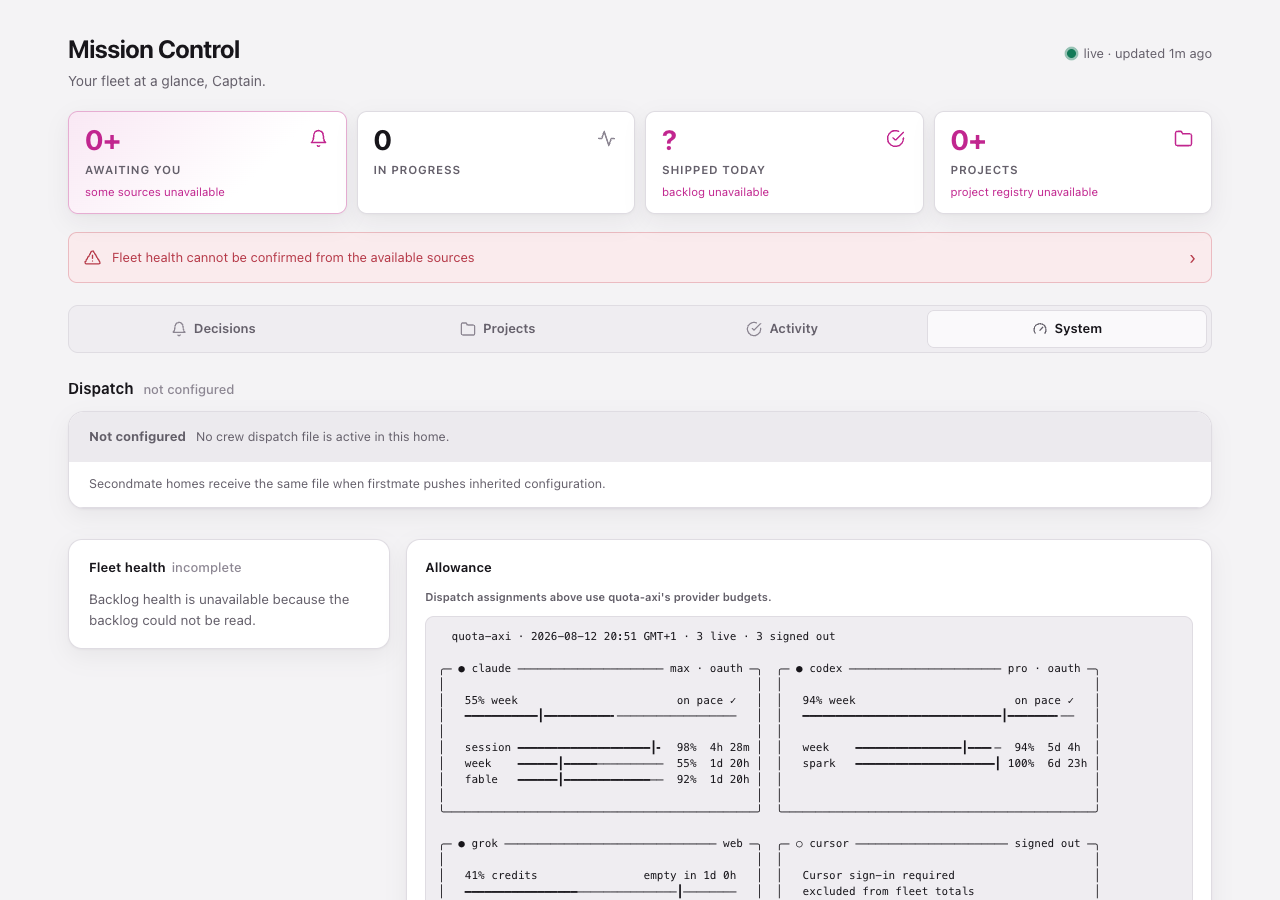
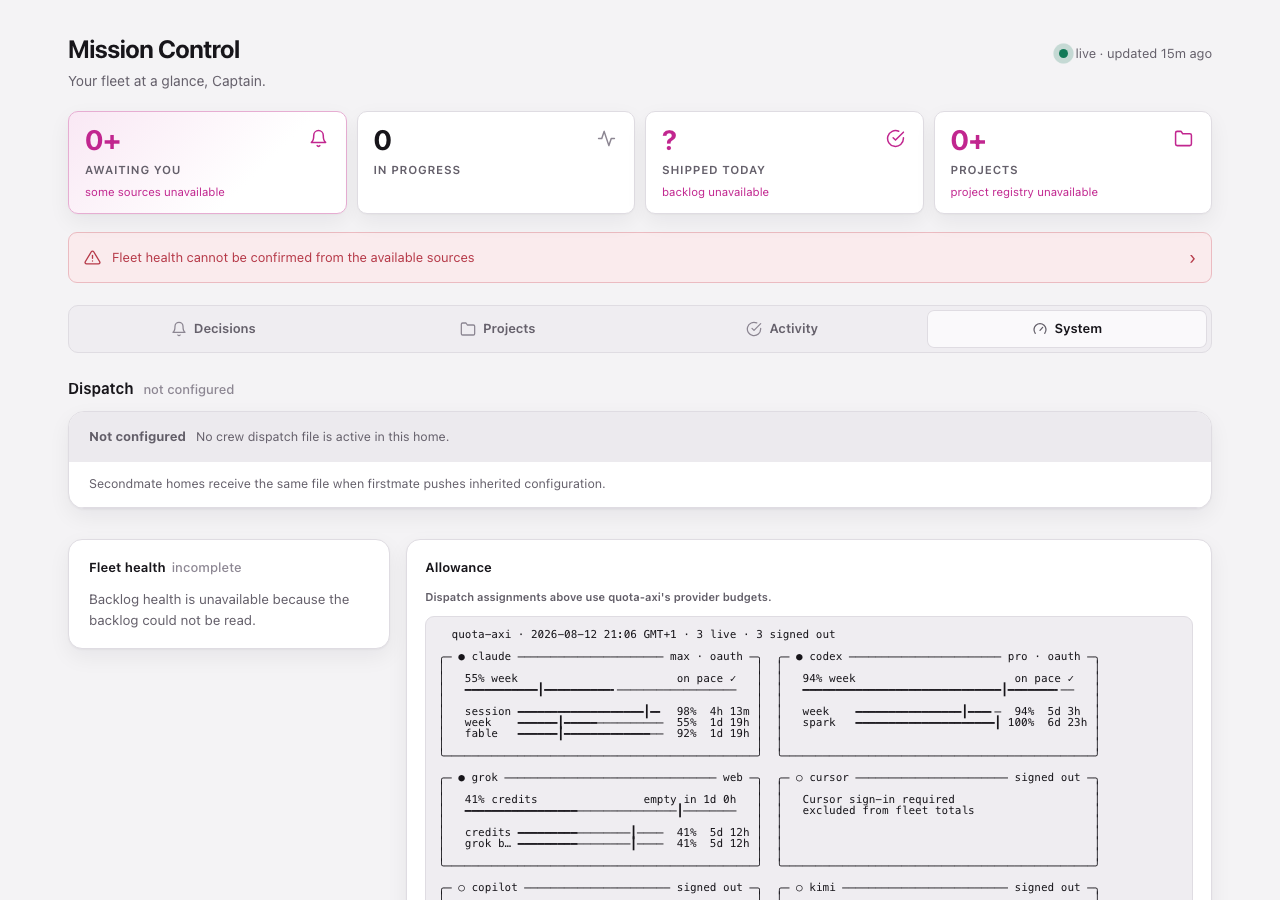
no-mistakes(review): Captain: polish quota snapshot presentation and documentation

diff --git a/docs/mission-control.md b/docs/mission-control.md
@@ -3,7 +3,7 @@
 `bin/fm-mission-control.sh` renders the fleet's current state into one self-contained HTML board that the captain keeps open.
 It is a generator, not a server: each run writes one file, and the page reloads itself so a regenerated file appears without a click.
 
-The board is a compact executive summary: a stat strip, the decisions waiting on the captain, a card per project, what landed today, a very recent autonomous-actions feed, and a quiet System view carrying fleet health plus allowance pace.
+The board is a compact executive summary: a stat strip, the decisions waiting on the captain, a card per project, what landed today, a very recent autonomous-actions feed, and a quiet System view carrying fleet health plus a provider allowance snapshot.
 Its neutral Grok-inspired visual system uses dark as the explicit CSS fallback and default, then follows a light system preference for bright contexts.
 The renderer's inline style is the sole board CSS owner and documents the role-token contract and semantic mappings.
 Components consume those roles instead of owning palette literals.
@@ -16,7 +16,7 @@ The script's own header and `--help` own its exact flags, environment variables,
 
 The board shows state.
 By default it shows nothing else: no reply controls, no review surface, no browser network requests, and no supervision wiring.
-The generator's allowance read is a bounded loopback GET to the local Token Dashboard, never a request from the rendered page or to a remote host.
+The generator's allowance read is a bounded `quota-axi --tui --once` subprocess on the board's existing regeneration cadence, never a live terminal or a request from the rendered page.
 `--controls` adds the captain reply layer described under "Replying from the board", which records requests and still performs nothing itself.
 That layer is the only thing that makes the page itself reach the network, and only to the URL it was loaded from.
 
@@ -94,15 +94,13 @@ The stage itself is derived by the snapshot rather than by the board; see `bin/f
   Raw JSON remains available only in an expandable shelf.
   The canonical schema and all field semantics remain in [`docs/configuration.md`](configuration.md#crew-dispatch-profiles-configcrew-dispatchjson).
   The view also notes that secondmate homes receive this same file when inherited configuration is pushed.
-- **Model-provider allowance & pace** integrates the local Token Dashboard into the System view rather than repeating its numbers in a separate dashboard-shaped panel.
+- **Model-provider allowance** shows `quota-axi`'s own one-shot terminal screen in the System view.
   Reciprocal links connect this provider-budget surface with Dispatch directly above it without adding routing or selection logic.
-  Each primary allowance window leads with current remaining allowance, then keeps pace against the reset, observed cycle history, and projected runway or exhaustion in one compact card.
-  Recent automatic balancing is a quiet collapsed shelf under those cards, so its activity remains visible without becoming another monitoring feed.
-  Mission Control consumes normalized allowance windows, bounded history, pace thresholds, and the safe balancing summary from the Token Dashboard API, adding a narrowed live Grok window set from `quota-axi` only while that source has no Grok windows.
-  Session rows, credentials, action reasons, action details, and unknown payload fields are discarded before rendering.
-  An old successful Token Dashboard reading is labelled stale, a failed latest collection is stated, and an absent dashboard keeps existing providers on the original live `quota-axi` gauges while Grok uses compact cards with supplied pace, reset, and runway; saved history and balancing remain explicitly unavailable.
-  Missing Grok measurements use the existing unavailable, unmeasurable, or sign-in-required state instead of zero, and the separate prepaid credits balance is never treated as a percentage.
-  The renderer only reads the standalone service and never refreshes, changes, stops, or replaces it.
+  Mission Control does not interpret, augment, or reproduce the snapshot's allowance numbers, pace, layout, or history.
+  The fixed-width screen is plain text inside a themed, horizontally scrollable surface, with terminal control sequences removed and every character HTML-escaped before rendering.
+  At phone width the screen uses a smaller monospace presentation with box-drawing coverage so more of its grid remains legible while the page body stays contained.
+  If `quota-axi` is missing, fails, times out, or returns no output, the section plainly states that allowance information is unavailable without inventing numbers or restoring the old charts.
+  Token Dashboard logging and its saved history remain untouched, but Mission Control no longer reads or renders them.
 
 An idle second mate is healthy and is rendered as such, never as an alarm.
 
@@ -287,7 +285,7 @@ If the request log stops matching the recorded cursor - it was replaced, truncat
 `bin/fm-mission-control.sh --help` owns the exact commands for setting a decision aside and bringing it back, including the reason-preservation hazard.
 
 Any source may be absent.
-An absent backlog, project registry, secondmate table, Token Dashboard reading, or live allowance fallback renders an explicit unavailable or empty notice that states what is missing, and never a misleading zero.
+An absent backlog, project registry, secondmate table, or allowance snapshot renders an explicit unavailable or empty notice that states what is missing, and never a misleading zero.
 
 ## Where the data comes from
 
@@ -299,10 +297,9 @@ Paths come from that snapshot's own resolved roots, so the board follows the act
 Four concerns come from outside the snapshot because the snapshot does not own them:
 
 - `data/projects.md` is the delivery-posture registry that the project cards group by.
-- The local Token Dashboard API is the preferred allowance source because that service owns normalized pace thresholds, append-only quota history, projected runway, and the automatic balancing feed.
-  The board narrows the response to its display contract before rendering and never carries session-level metering into its HTML.
-  If the local service has no successful reading or cannot be reached, `quota-axi --json` remains the live-only fallback.
-  A provider with no readable window is reported with its reason, because a sign-in gap is not an exhausted allowance.
+- `quota-axi --tui --once` is the sole allowance source for Mission Control and owns the snapshot's content and terminal layout.
+  The board captures it only while regenerating, removes terminal control sequences, and embeds the remaining text in the self-contained page.
+  This display path does not change the separate `quota-axi --json` contract used for dispatch routing.
 - `state/autonomous-actions.ndjson` is the private, append-only source for the narrow recent autonomous-actions feed.
   It is read only by the board and never derived from task status prose.
 - Each project card's last-change time.
@@ -320,7 +317,7 @@ Both name the same project, so both fold onto the same rollup row and display as
 [`docs/decision-hold-lifecycle.md`](decision-hold-lifecycle.md) owns which structured context fields a captain decision records and how they are backfilled through the supported hold interface.
 The canonical backlog parser and secondmate-home summary carry that context to renderers, so Mission Control does not parse private body conventions itself.
 
-Every value that comes from fleet state, the registry, the autonomous-action record, or either allowance source is HTML-escaped before it reaches the page.
+Every value that comes from fleet state, the registry, the autonomous-action record, or the allowance snapshot is HTML-escaped before it reaches the page.
 
 ## Recording autonomous actions
 
@@ -348,7 +345,7 @@ The generator does not serve it; how the file is exposed is decided outside it.
 
 ## Verification
 
-`tests/fm-mission-control.test.sh` renders the board end to end from a fixture home and from captured snapshot payloads, covering present and absent sources, known and unavailable header render times, the empty and populated recent autonomous-actions feed, its 12-hour expiry and newest-first order, cross-home captain decisions, escaping of hostile prose, project folding, work outside the registry, per-item stage and model rendering, bounded cross-home stage values, safe handling of valid, missing, and malformed secondmate active-task totals, item overflow, blocked work, rich allowance pace and history, automatic balancing, unavailable and stale allowance sources, narrow allowance labels, unmeasurable fallback windows, self-reload, the self-contained favicon in ordinary and control-enabled boards, the tab structure, the deferred shelf, and labelled structured decision context.
+`tests/fm-mission-control.test.sh` renders the board end to end from a fixture home and captured fleet snapshots, covering present and absent sources, known and unavailable header render times, the empty and populated recent autonomous-actions feed, its 12-hour expiry and newest-first order, cross-home captain decisions, escaping of hostile prose, project folding, work outside the registry, per-item stage and model rendering, bounded cross-home stage values, safe handling of valid, missing, and malformed secondmate active-task totals, item overflow, blocked work, the one-shot allowance snapshot's happy, missing-binary, and failed-command paths, its safe text rendering and fixed-width containment, self-reload, the self-contained favicon in ordinary and control-enabled boards, the tab structure, the deferred shelf, and labelled structured decision context.
 The deferred cases pin the awaiting count and the section count to literal numbers rather than to the absence of a title, because dropping a decision from the list while still counting it and counting it while still listing it fail separately.
 The decision-context case renders a structured and an old-style decision from one fixture home and pins the count of rendered context blocks, so leaving the old-style decision alone is proven rather than inferred from it happening to look bare.
 The dependency case adds a titled dependent, an unavailable secondmate-dependent title, and a decision with no dependents, then pins the titled line, id fallback, and absence of an extra line.
